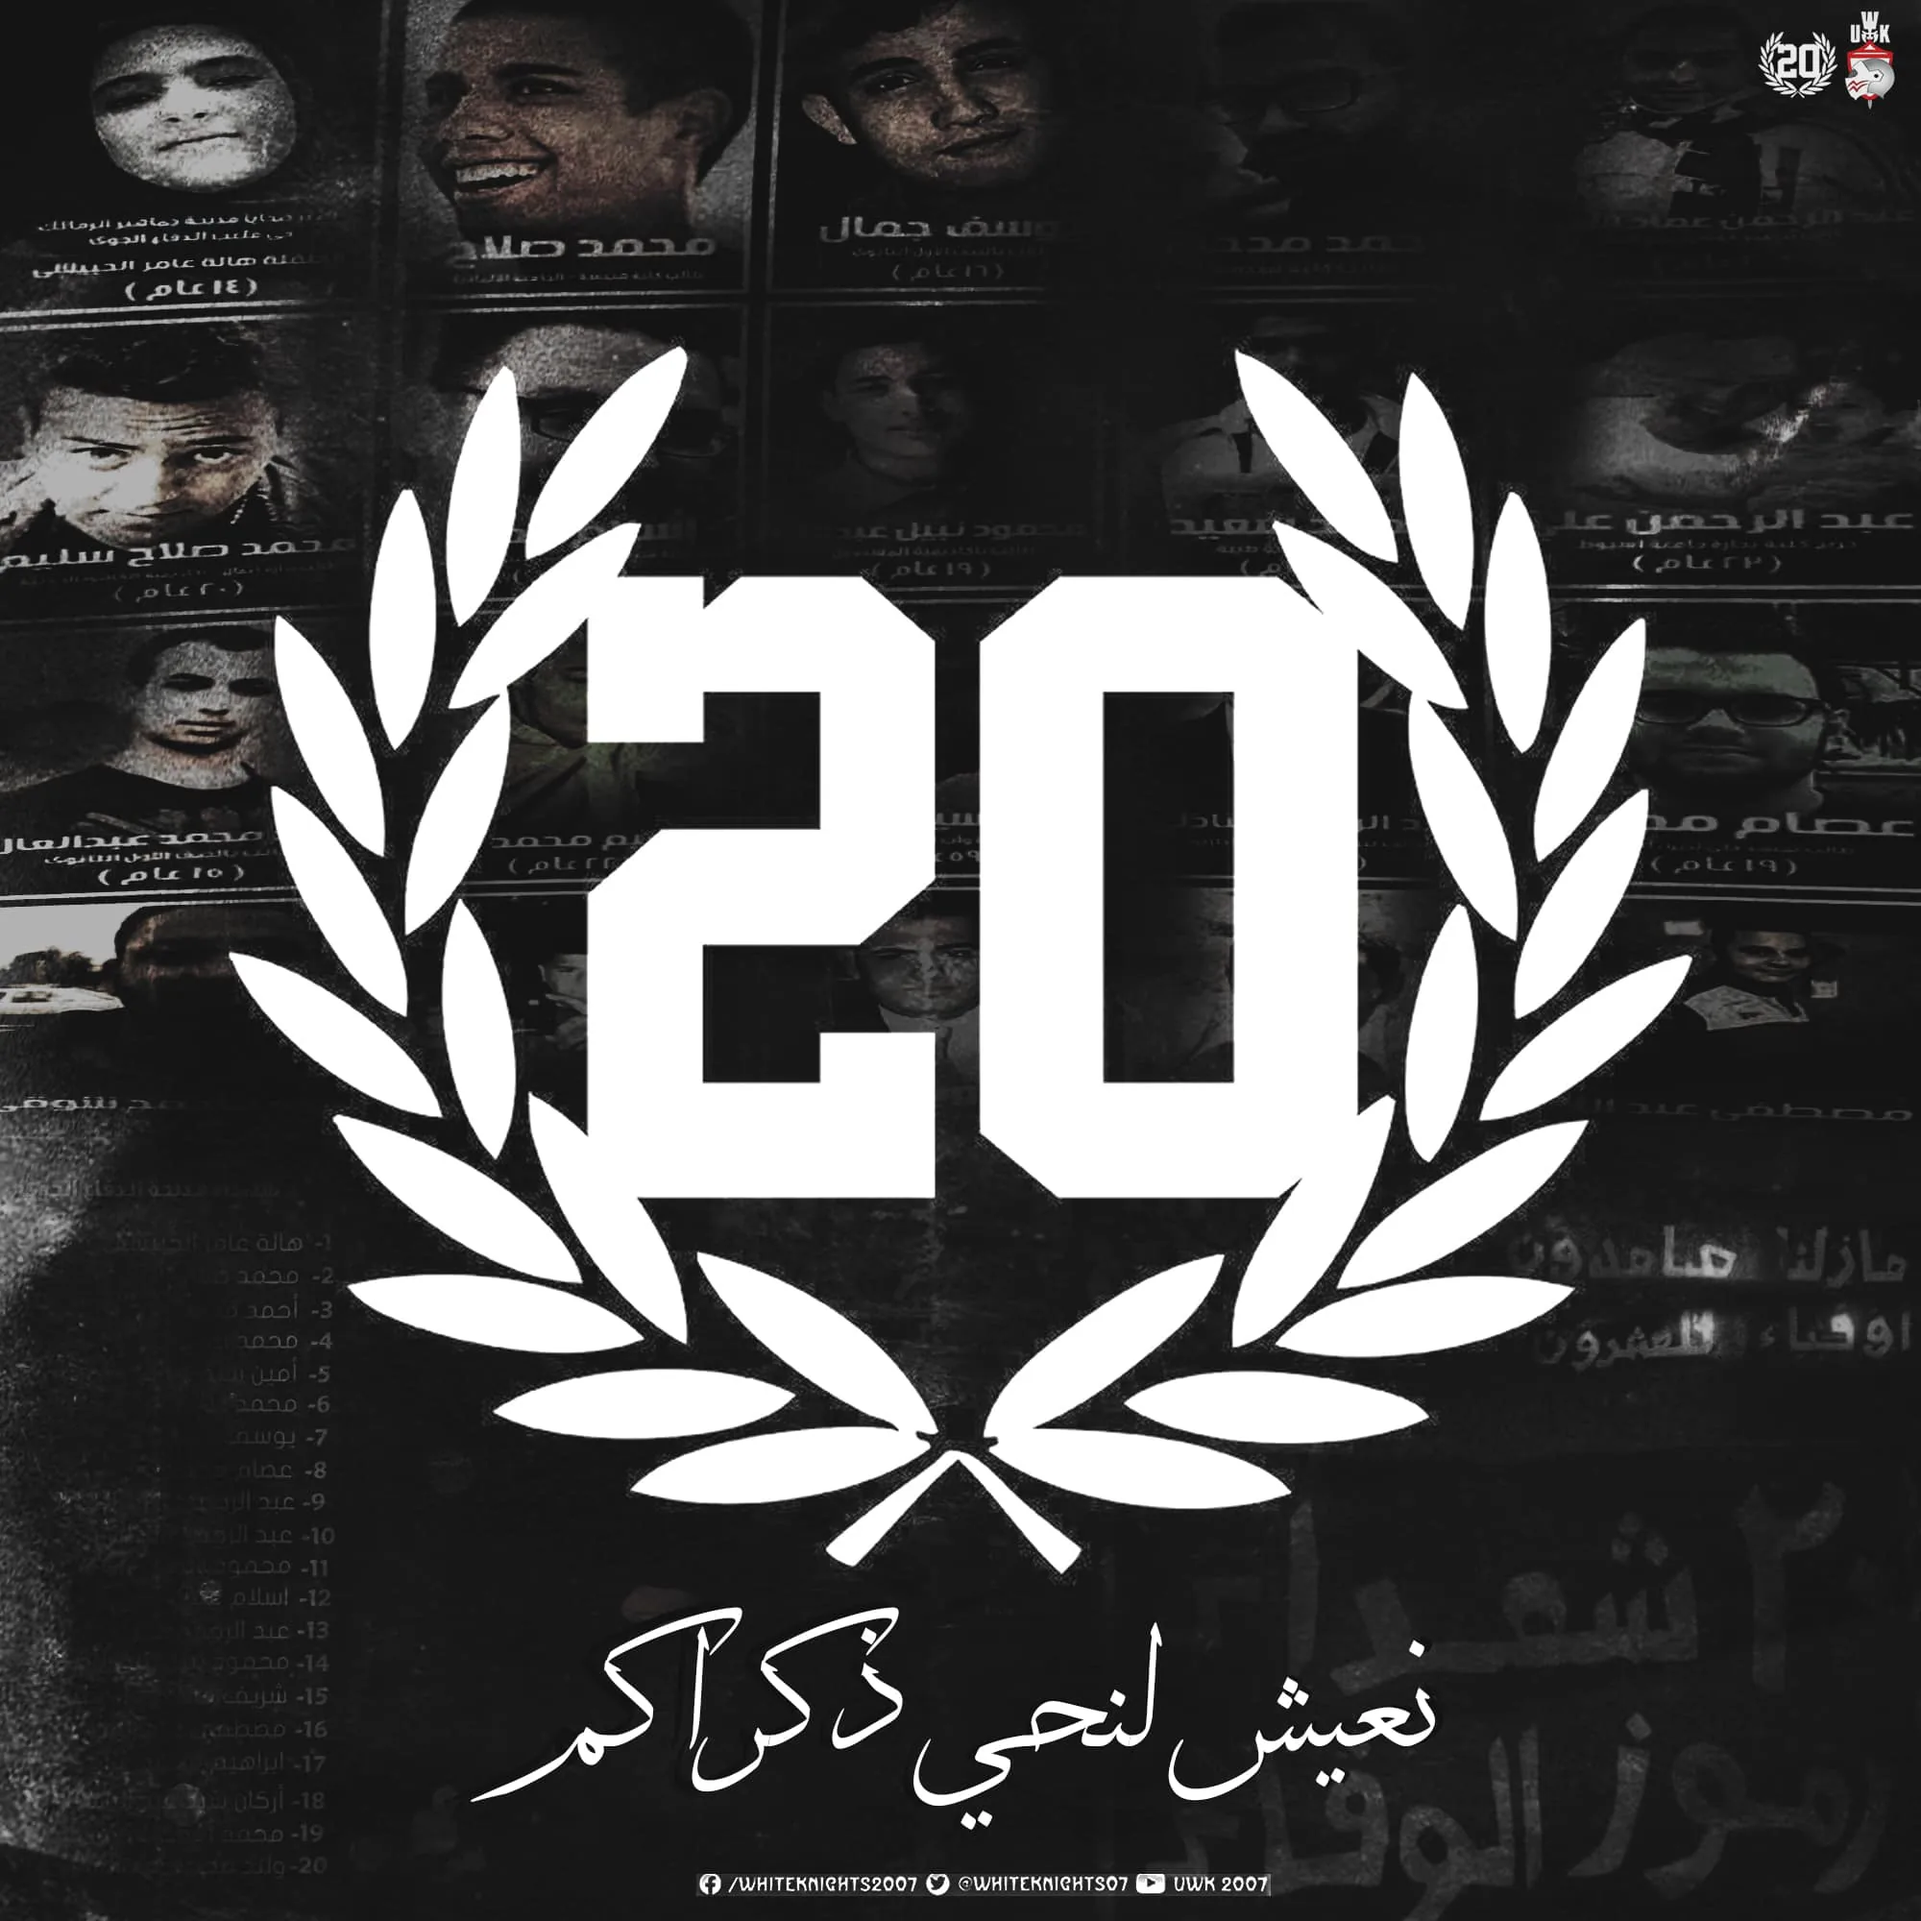
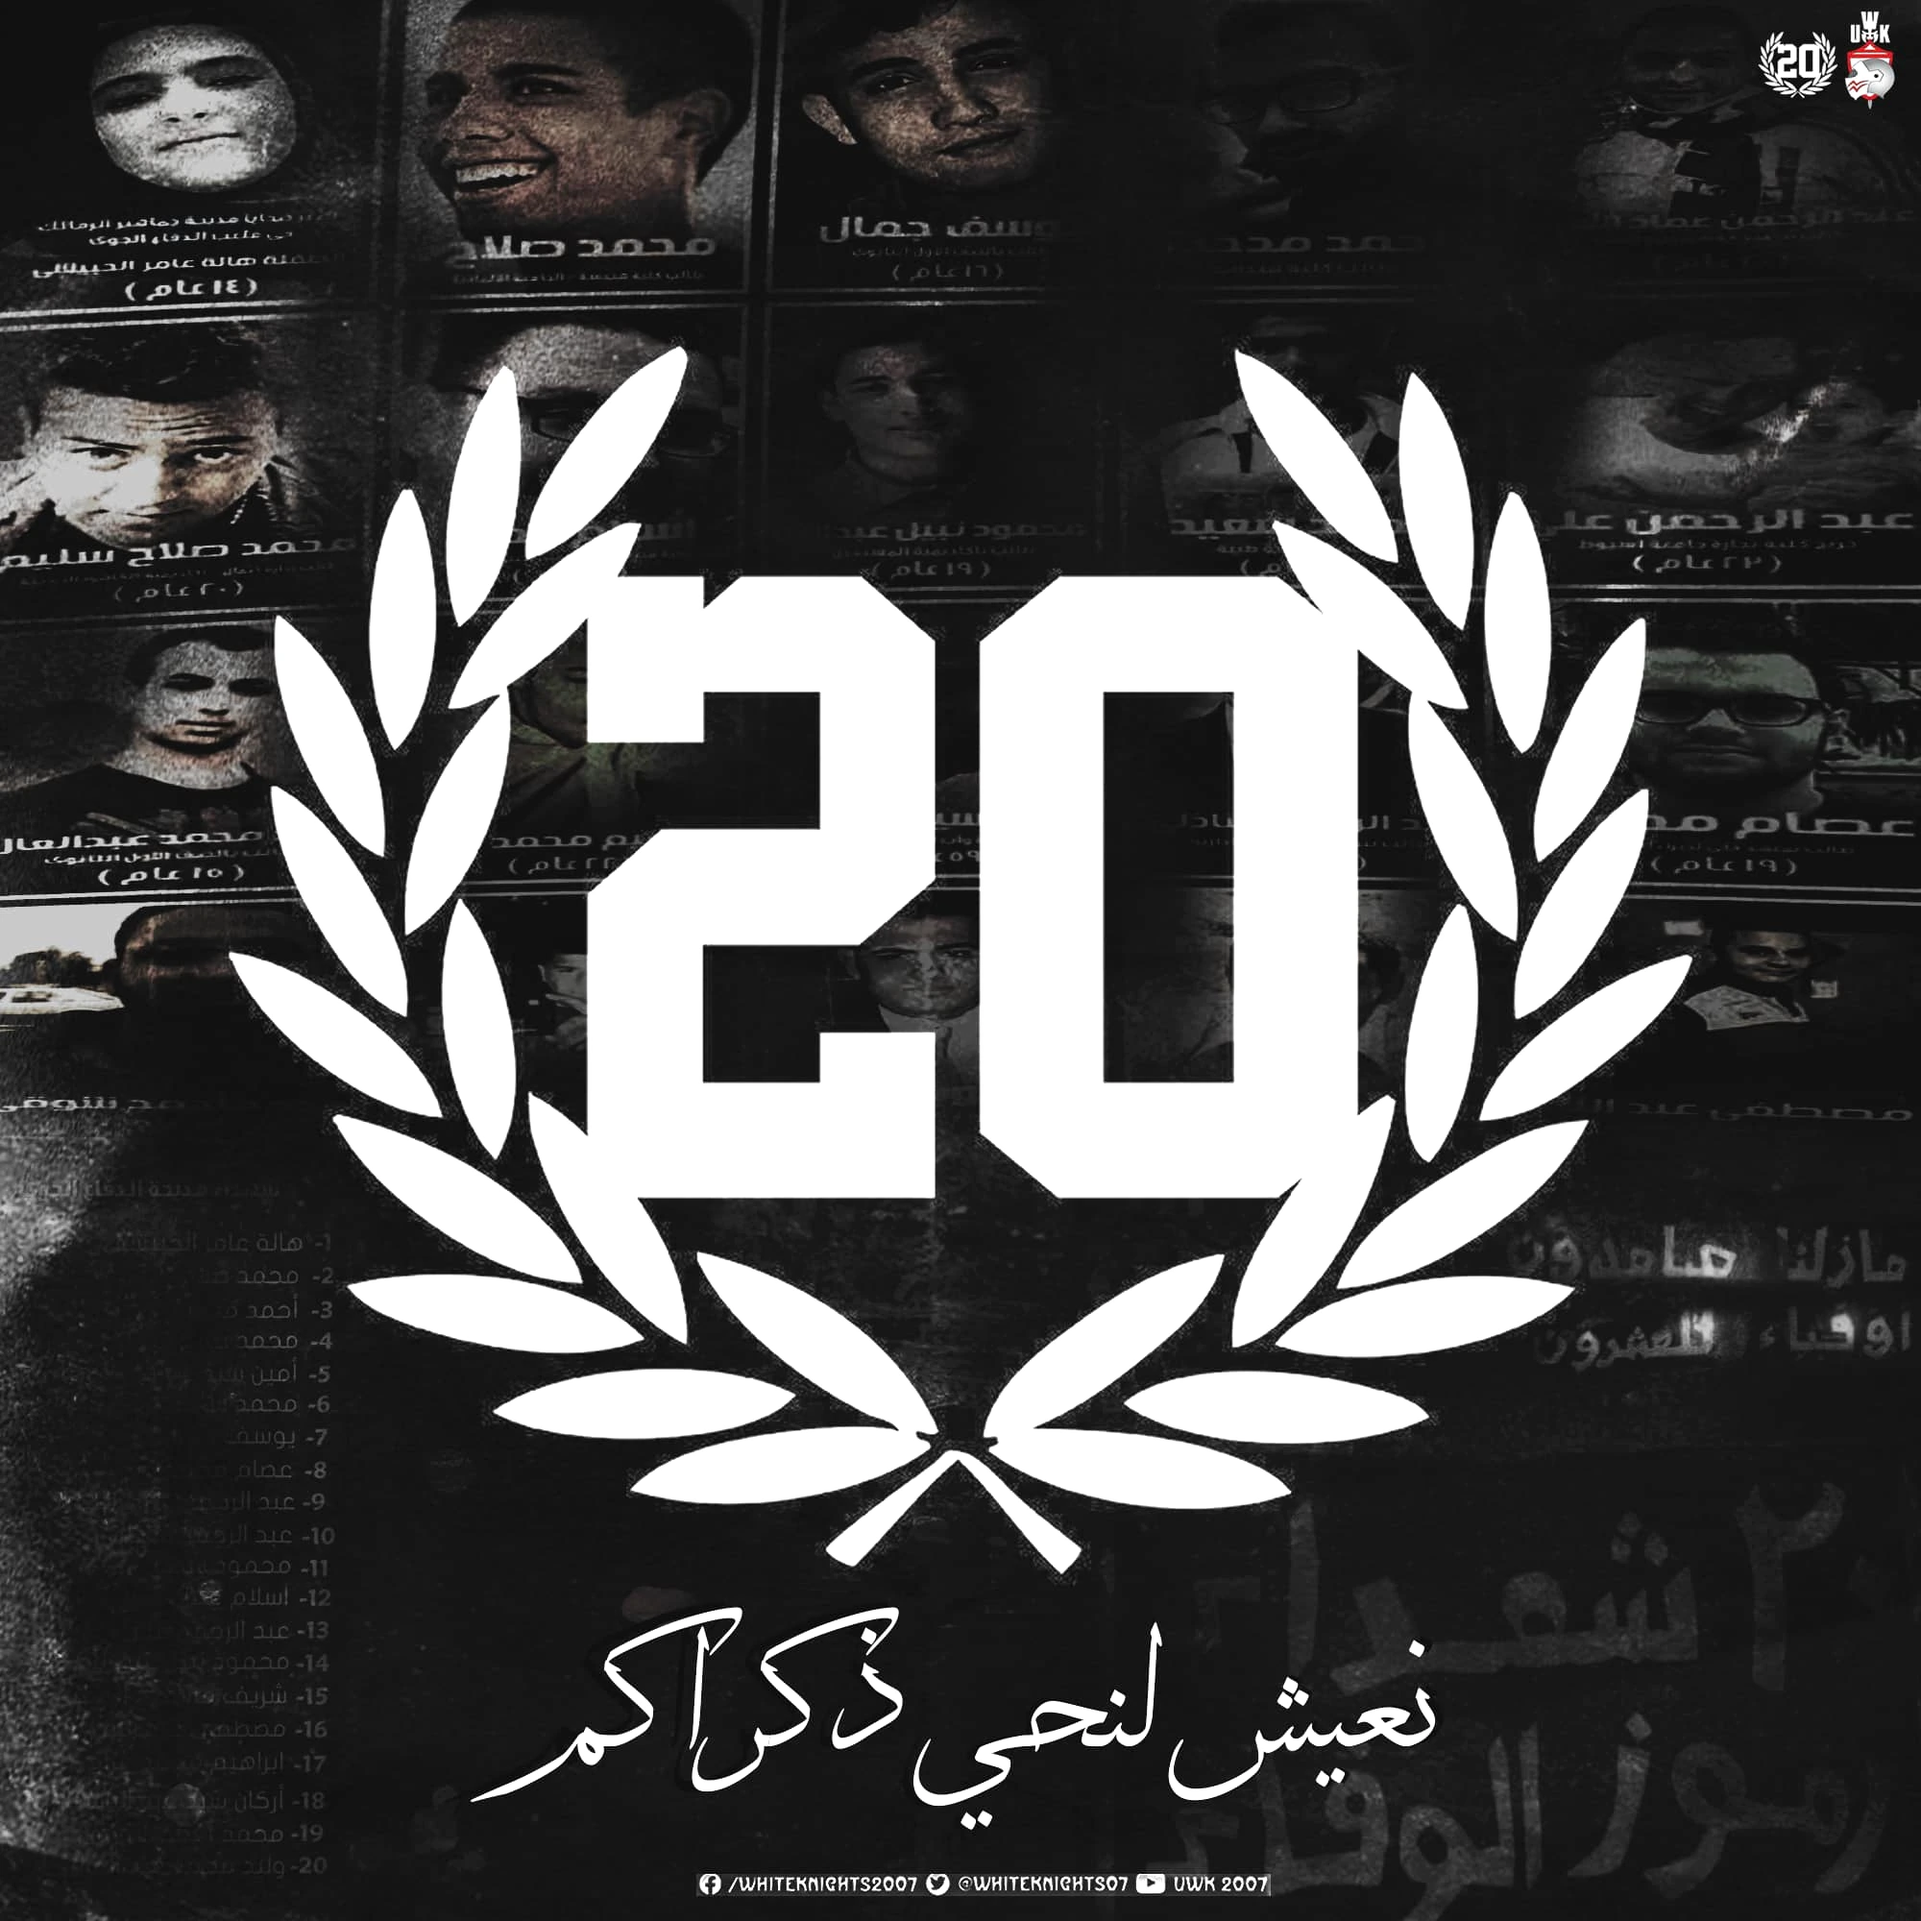
.

diff --git a/public/ua07-20-theme.css b/public/ua07-20-theme.css
@@ -7,7 +7,33 @@
 html.ua07-legacy-theme-live,
 html.ua07-legacy-theme-live body {
   min-height: 100%;
-  background: #050506 !important;
+  background-color: #050506 !important;
+}
+
+/* Paint the legacy image directly on body so it is always visible above the page base background.
+   This fixes browsers hiding negative-z-index pseudo backgrounds behind the root canvas. */
+html.ua07-legacy-theme-live body {
+  background-image:
+    linear-gradient(180deg,
+      rgba(0, 0, 0, 0.18) 0%,
+      rgba(0, 0, 0, 0.08) 20%,
+      rgba(0, 0, 0, 0.18) 62%,
+      rgba(0, 0, 0, 0.42) 100%),
+    radial-gradient(64% 42% at 50% 24%, rgba(255, 255, 255, 0.13), rgba(255, 255, 255, 0) 68%),
+    url("./ua07-20-bg.webp?v=ua07legacy2"),
+    linear-gradient(135deg, #070708 0%, #111113 44%, #050506 100%) !important;
+  background-position:
+    center center,
+    center 18%,
+    center center,
+    center center !important;
+  background-size:
+    cover,
+    cover,
+    cover,
+    cover !important;
+  background-repeat: no-repeat !important;
+  background-attachment: fixed !important;
 }
 
 html.ua07-legacy-theme-live::before {
@@ -24,7 +50,7 @@ html.ua07-legacy-theme-live::before {
       rgba(0, 0, 0, 0.20) 45%,
       rgba(0, 0, 0, 0.46) 100%),
     radial-gradient(70% 48% at 50% 30%, rgba(255, 255, 255, 0.10), rgba(255, 255, 255, 0) 62%),
-    url("./ua07-20-bg.webp") center 35% / min(88vw, 1280px) auto no-repeat,
+    url("./ua07-20-bg.webp?v=ua07legacy2") center center / cover no-repeat,
     linear-gradient(135deg, #070708 0%, #111113 44%, #050506 100%);
   opacity: 0.92;
 }
@@ -78,7 +104,7 @@ html.ua07-legacy-theme-live #EID_DECOR_LAYER::after {
         rgba(0, 0, 0, 0.26) 20%,
         rgba(0, 0, 0, 0.48) 100%),
       radial-gradient(76% 42% at 50% 24%, rgba(255, 255, 255, 0.10), rgba(255, 255, 255, 0) 66%),
-      url("./ua07-20-bg.webp") center 26% / 116vw auto no-repeat,
+      url("./ua07-20-bg.webp?v=ua07legacy2") center center / cover no-repeat,
       linear-gradient(135deg, #070708 0%, #111113 44%, #050506 100%);
   }
 }

diff --git a/public/eid-hud.js b/public/eid-hud.js
@@ -10,7 +10,7 @@ const LS_THEME_OFF = "sr_eid_theme_off";
 const LS_THEME_MODE = "sr_visual_theme_mode";
 const TOGGLE_BTN_ID = "EID_TOGGLE_BTN";
 const LEGACY_THEME_LINK_ID = "ua07LegacyThemeLink";
-const LEGACY_THEME_HREF = "ua07-20-theme.css";
+const LEGACY_THEME_HREF = "ua07-20-theme.css?v=ua07legacy2";
 const THEME_EID = "eid";
 const THEME_LEGACY = "legacy";
 const THEME_OFF = "off";
